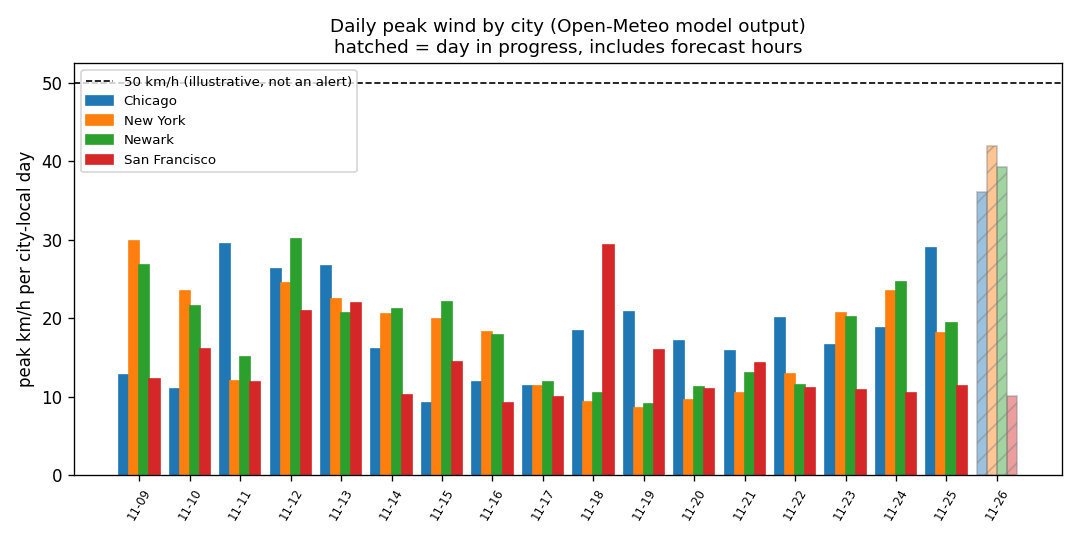
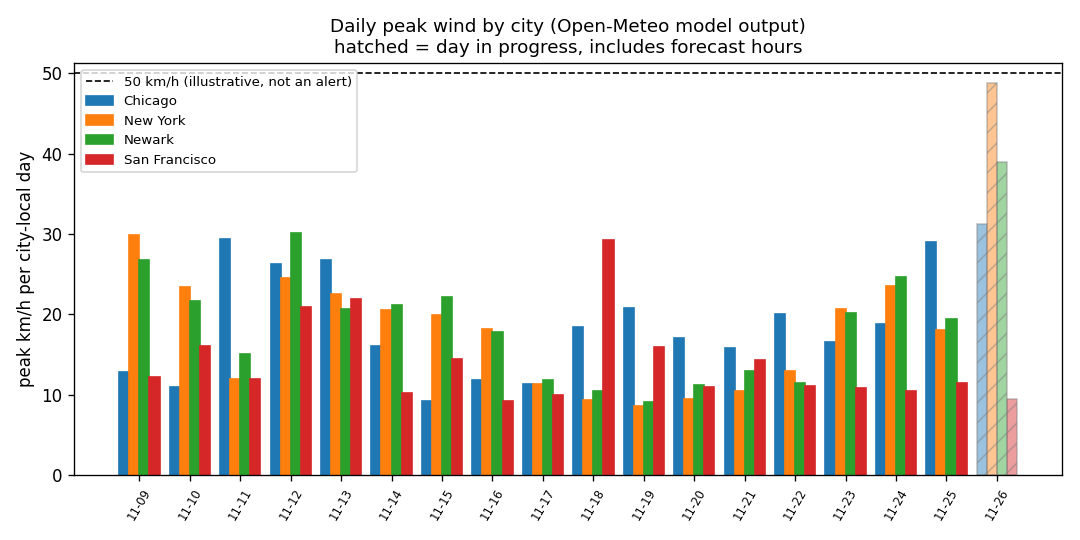
Add daily temperature range table; refresh data

diff --git a/src/weatherwh/dashboard.py b/src/weatherwh/dashboard.py
@@ -275,6 +275,26 @@ def data_coverage(con, now_utc: dt.datetime | None = None, full_hours: int = 24)
             for c, h in sorted(per.items())]
 
 
+def diurnal_range(con, now_utc: dt.datetime | None = None) -> list[dict]:
+    """Per city over completed days: mean daily temperature range (max minus
+    min), the widest range and its date. Model output, current window only."""
+    from .extremes import day_status
+
+    rows = con.execute(
+        "SELECT city, day, min_temp_c, max_temp_c FROM mart_daily_city "
+        "WHERE min_temp_c IS NOT NULL AND max_temp_c IS NOT NULL ORDER BY city, day").fetchall()
+    per: dict[str, list] = {}
+    for city, day, lo, hi in rows:
+        if day_status(city, day, now_utc) == "complete":
+            per.setdefault(city, []).append((round(hi - lo, 1), day))
+    out = []
+    for city, vals in sorted(per.items()):
+        widest = max(vals, key=lambda v: (v[0], -v[1].toordinal()))
+        out.append({"city": city, "days": len(vals), "mean_range_c": round(sum(v[0] for v in vals) / len(vals), 1),
+                    "widest_c": widest[0], "widest_day": widest[1]})
+    return out
+
+
 def plot_rain_totals(con, out_path, now_utc: dt.datetime | None = None, wet_days: bool = True) -> bool:
     """Total rain per city over completed days only (in-progress days include
     forecast hours and would skew totals). Bars annotated with the number of
@@ -442,6 +462,13 @@ def render_markdown(con, generated_at: dt.datetime | None = None) -> str:
                   "| City | Days | Short days | Missing hours |", "| --- | ---: | ---: | ---: |"]
         for c in cov:
             lines.append(f"| {c['city']} | {c['days']} | {c['short_days']} | {c['missing_hours']} |")
+    dr = diurnal_range(con)
+    if dr:
+        lines += ["", "## Daily temperature range", "",
+                  "Maximum minus minimum temperature per completed day. Model output, current window only.", "",
+                  "| City | Days | Mean range (C) | Widest (C) | On |", "| --- | ---: | ---: | ---: | --- |"]
+        for r in dr:
+            lines.append(f"| {r['city']} | {r['days']} | {r['mean_range_c']} | {r['widest_c']} | {r['widest_day']} |")
     lines += ["", "![Total rain per city](rain_totals.png)", ""]
     lines += ["", "![Daily temperature range by city](temp_range_by_city.png)", ""]
     severe = extremes.severe_days(con)[:8]

diff --git a/tests/test_extremes.py b/tests/test_extremes.py
@@ -348,3 +348,18 @@ def test_data_coverage_counts_short_days_and_skips_in_progress():
     assert dashboard.data_coverage(con, now_utc=now) == [{"city": "A", "days": 2, "short_days": 1, "missing_hours": 4}]
     assert dashboard.data_coverage(_empty()) == []
     con.close()
+
+
+def test_diurnal_range_mean_widest_and_completed_only():
+    con = warehouse.connect(":memory:")
+    rows = []
+    for d, (lo, hi) in enumerate([(0.0, 10.0), (2.0, 6.0), (-5.0, 30.0)]):   # day 2 in progress
+        for h, t in ((0, lo), (12, hi)):
+            rows.append({"city": "A", "hour": T0 + dt.timedelta(days=d, hours=h), "ingested_at": T0,
+                         "temperature_2m": t, "precipitation": 0.0, "wind_speed_10m": 5.0})
+    warehouse.refresh(con, rows)
+    now = dt.datetime(2026, 11, 3, 6, tzinfo=dt.timezone.utc)
+    assert dashboard.diurnal_range(con, now_utc=now) == [
+        {"city": "A", "days": 2, "mean_range_c": 7.0, "widest_c": 10.0, "widest_day": dt.date(2026, 11, 1)}]
+    assert dashboard.diurnal_range(_empty()) == []
+    con.close()

diff --git a/reports/dashboard.md b/reports/dashboard.md
@@ -1,13 +1,13 @@
 # Weather Warehouse - daily dashboard
 
-Generated 2026-11-26 12:04 UTC.
+Generated 2026-11-26 15:04 UTC.
 
 | city | day | avg_temp_c | min_temp_c | max_temp_c | total_precip_mm | max_wind_kmh | hours_observed |
 | --- | --- | --- | --- | --- | --- | --- | --- |
-| Chicago | 2026-11-26 | 5.87 | 4.1 | 7.7 | 7.5 | 36.1 | 24 |
-| New York | 2026-11-26 | 7.29 | 5.5 | 10.7 | 45.8 | 41.9 | 24 |
-| Newark | 2026-11-26 | 6.73 | 4.5 | 10.6 | 49.5 | 39.3 | 24 |
-| San Francisco | 2026-11-26 | 12.5 | 10.1 | 16.3 | 0.0 | 10.1 | 24 |
+| Chicago | 2026-11-26 | 5.51 | 4.1 | 6.9 | 8.0 | 31.2 | 24 |
+| New York | 2026-11-26 | 7.17 | 5.8 | 10.6 | 52.0 | 48.8 | 24 |
+| Newark | 2026-11-26 | 6.61 | 4.6 | 10.4 | 46.4 | 39.0 | 24 |
+| San Francisco | 2026-11-26 | 12.43 | 10.1 | 16.0 | 0.0 | 9.5 | 24 |
 | Chicago | 2026-11-25 | 3.34 | 0.7 | 5.4 | 0.0 | 29.0 | 24 |
 | New York | 2026-11-25 | 3.47 | -0.1 | 5.9 | 0.0 | 18.1 | 24 |
 | Newark | 2026-11-25 | 3.49 | -0.3 | 6.9 | 0.0 | 19.4 | 24 |
@@ -65,9 +65,9 @@ Model output in mm over the window; the current day includes forecast hours.
 | city | total mm | wet days (>=1 mm) |
 | --- | ---: | ---: |
 | San Francisco | 104.1 | 10 |
-| Newark | 84.2 | 3 |
-| New York | 71.1 | 3 |
-| Chicago | 26.0 | 6 |
+| Newark | 81.1 | 3 |
+| New York | 77.3 | 3 |
+| Chicago | 26.5 | 6 |
 
 ## City leaders, 2026-11-25 (latest day complete in every city)
 
@@ -84,10 +84,10 @@ Last successful Open-Meteo fetch per city (empty or failed fetches do not count)
 
 | City | Last successful fetch | Age (h) | Failed fetches since | Latest hour held |
 | --- | --- | ---: | ---: | --- |
-| Chicago | 2026-11-26 07:04:28.397718 | 0.0 | 0 | 2026-11-26 23:00:00 |
-| New York | 2026-11-26 07:04:28.397718 | 0.0 | 0 | 2026-11-26 23:00:00 |
-| Newark | 2026-11-26 07:04:28.397718 | 0.0 | 0 | 2026-11-26 23:00:00 |
-| San Francisco | 2026-11-26 07:04:28.397718 | 0.0 | 0 | 2026-11-26 23:00:00 |
+| Chicago | 2026-11-26 10:04:55.579922 | 0.0 | 0 | 2026-11-26 23:00:00 |
+| New York | 2026-11-26 10:04:55.579922 | 0.0 | 0 | 2026-11-26 23:00:00 |
+| Newark | 2026-11-26 10:04:55.579922 | 0.0 | 0 | 2026-11-26 23:00:00 |
+| San Francisco | 2026-11-26 10:04:55.579922 | 0.0 | 0 | 2026-11-26 23:00:00 |
 
 ## Dry-day streaks (rain under 1 mm)
 
@@ -203,6 +203,17 @@ Completed days only. A short day has fewer than 24 hourly readings; any gaps wou
 | Newark | 17 | 0 | 0 |
 | San Francisco | 17 | 0 | 0 |
 
+## Daily temperature range
+
+Maximum minus minimum temperature per completed day. Model output, current window only.
+
+| City | Days | Mean range (C) | Widest (C) | On |
+| --- | ---: | ---: | ---: | --- |
+| Chicago | 17 | 9.4 | 13.5 | 2026-11-20 |
+| New York | 17 | 8.9 | 14.0 | 2026-11-20 |
+| Newark | 17 | 9.8 | 16.2 | 2026-11-18 |
+| San Francisco | 17 | 6.6 | 12.3 | 2026-11-10 |
+
 ![Total rain per city](rain_totals.png)
 
 
@@ -217,8 +228,8 @@ Daily rain >= 10 mm or wind >= 50 km/h. Illustrative thresholds, not official we
 
 | city | day | precip mm | max wind km/h | why | day status |
 | --- | --- | ---: | ---: | --- | --- |
-| New York | 2026-11-26 | 45.8 | 41.9 | heavy rain | in progress (includes forecast hours) |
-| Newark | 2026-11-26 | 49.5 | 39.3 | heavy rain | in progress (includes forecast hours) |
+| New York | 2026-11-26 | 52.0 | 48.8 | heavy rain | in progress (includes forecast hours) |
+| Newark | 2026-11-26 | 46.4 | 39.0 | heavy rain | in progress (includes forecast hours) |
 | San Francisco | 2026-11-19 | 10.1 | 15.9 | heavy rain | complete |
 | San Francisco | 2026-11-18 | 46.4 | 29.3 | heavy rain | complete |
 | Chicago | 2026-11-13 | 10.5 | 26.7 | heavy rain | complete |
